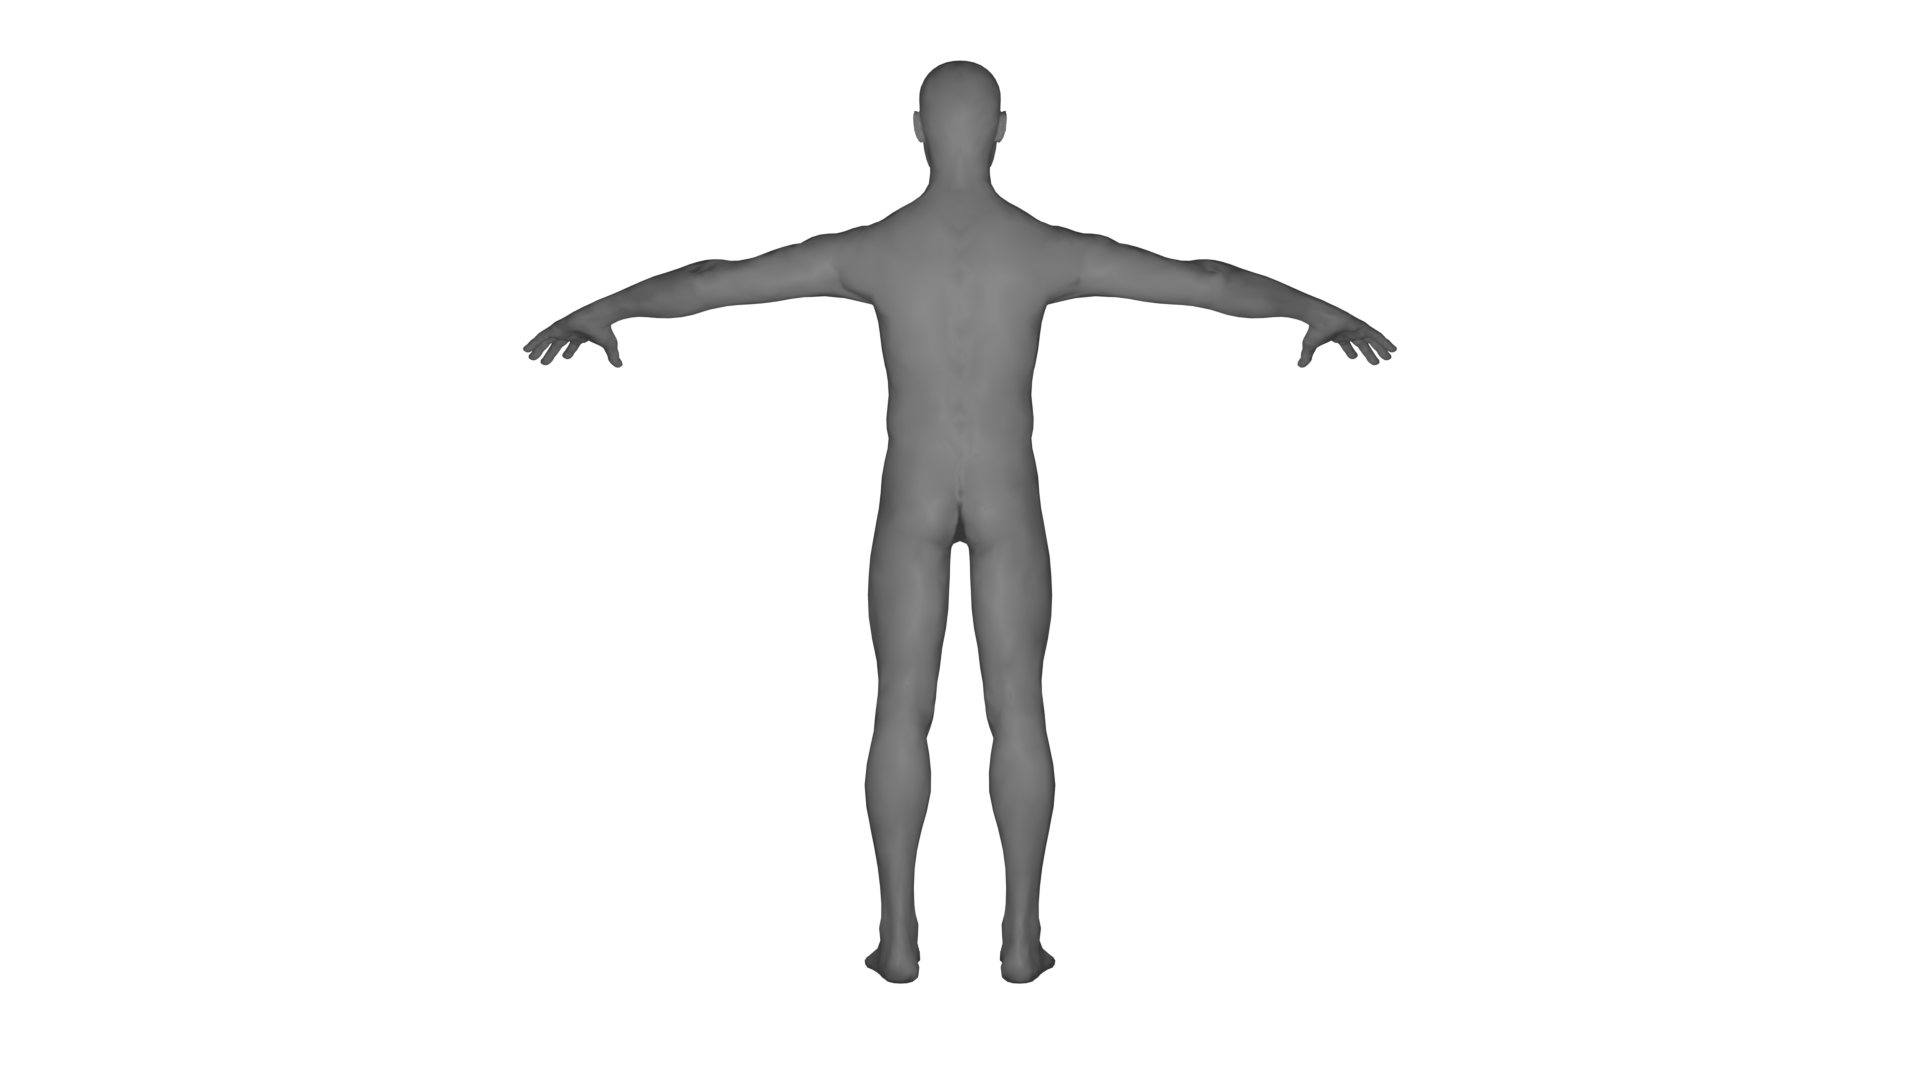
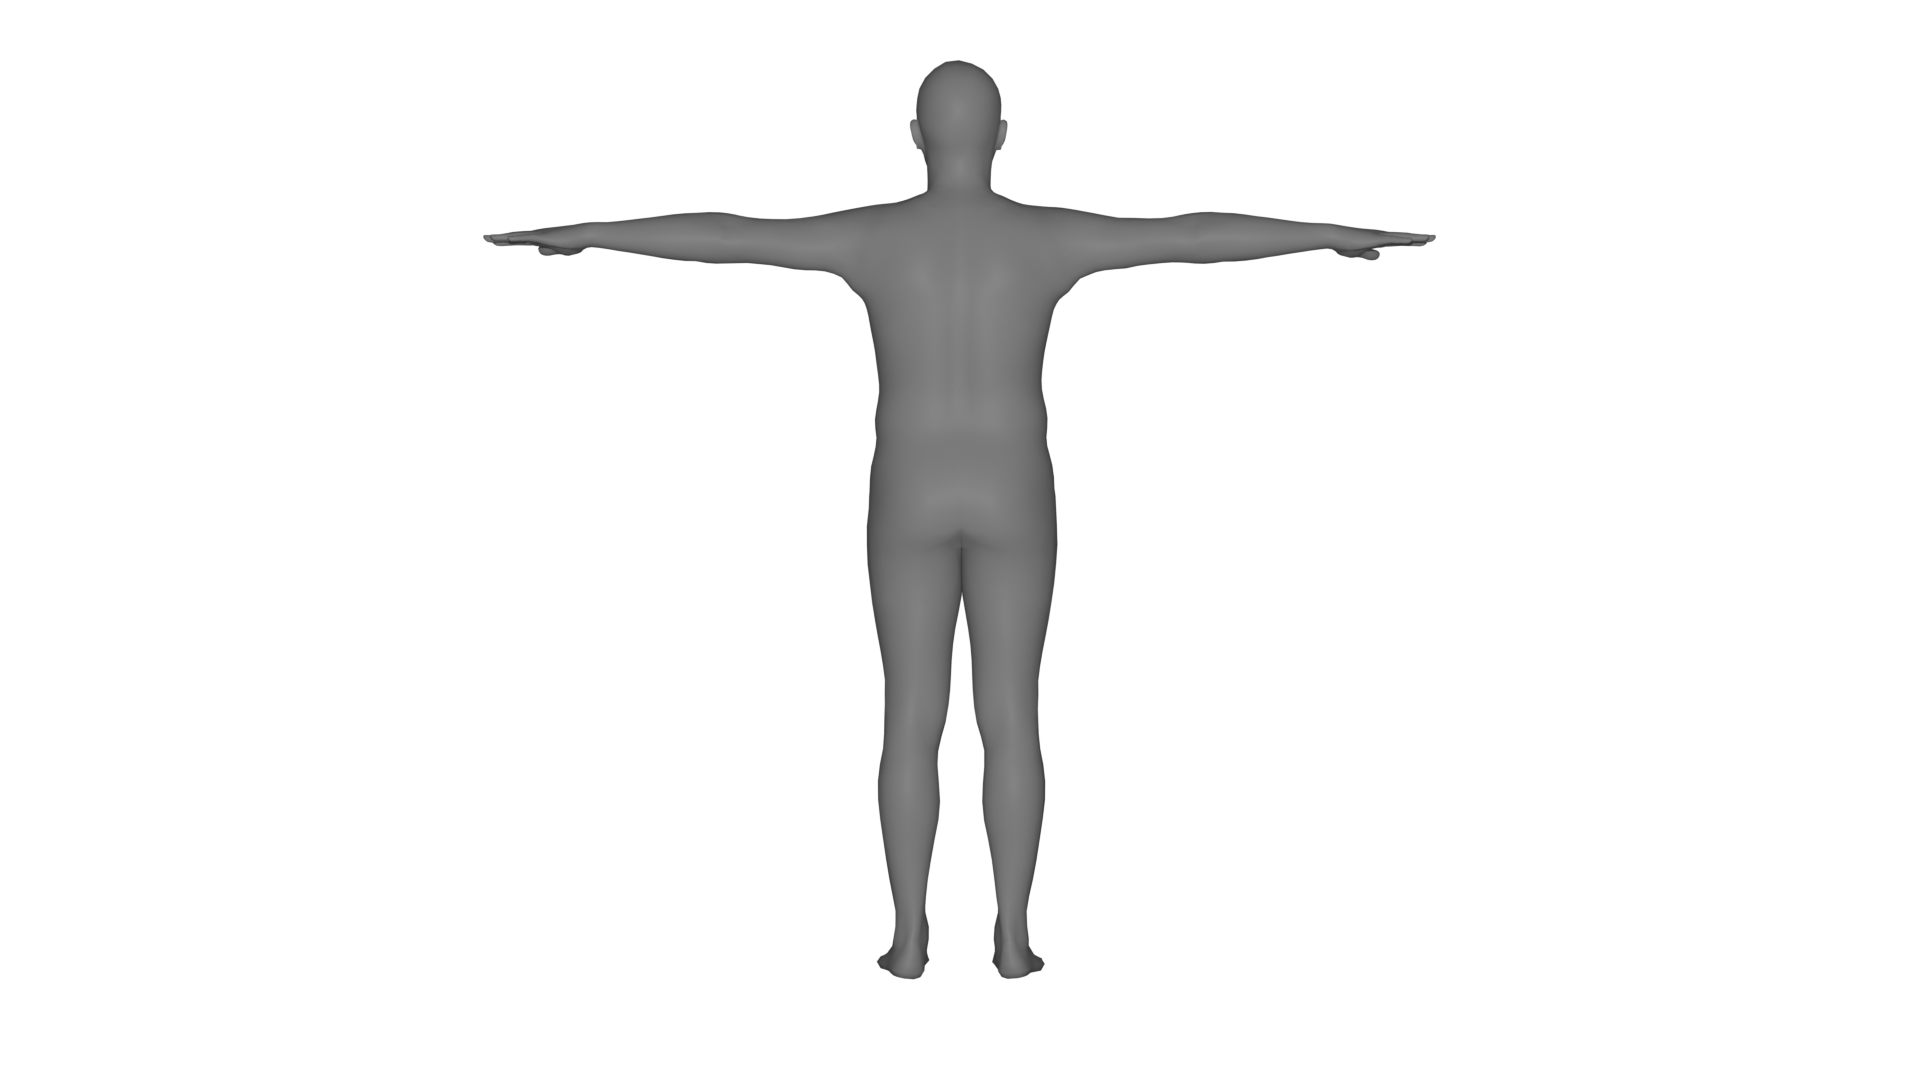
update

Changed region(s): [[0.25, 0.1833, 0.5625, 0.9167], [0.5312, 0.1833, 0.75, 0.3361]]

diff --git a/src/canvas/UI/ThreeDView.tsx b/src/canvas/UI/ThreeDView.tsx
@@ -1,23 +1,105 @@
-import { useCallback, useEffect, useRef, useState } from 'react';
-import { useCanvasState } from '../state/CanvasState';
-import type { CanvasPresent } from '../state/types';
+import { useCallback, useEffect, useRef, useState } from "react";
+import { useCanvasState } from "../state/CanvasState";
+import type { CanvasPresent } from "../state/types";
+
+const FRONT_IMAGE_ID = "static-man";
+const BACK_IMAGE_ID = "static-man-back";
+const STATIC_MAN_DIMENSIONS = { width: 1920, height: 1080 };
+const HUMAN_REFERENCE_FALLBACK = {
+  top: 17,
+  bottom: 765,
+  halfWidth: 718.5,
+  frontHalfWidth: null as number | null,
+  backHalfWidth: null as number | null,
+  frontCenterX: -80,
+  backCenterX: 1500,
+};
+
+type BackgroundImageEntry = CanvasPresent["backgroundImages"][number];
+
+function computeImageMetrics(image: BackgroundImageEntry | undefined) {
+  if (!image) return null;
+  const scaleX = Number.isFinite(image.scaleX) ? image.scaleX : 1;
+  const scaleY = Number.isFinite(image.scaleY) ? image.scaleY : 1;
+  const width = STATIC_MAN_DIMENSIONS.width * scaleX;
+  const height = STATIC_MAN_DIMENSIONS.height * scaleY;
+  return {
+    halfWidth: width / 2,
+    centerX: image.x + width / 2,
+    top: image.y,
+    bottom: image.y + height,
+  };
+}
+
+function buildHumanReferencePayload(
+  backgroundImages: CanvasPresent["backgroundImages"]
+) {
+  const payload = { ...HUMAN_REFERENCE_FALLBACK };
+  const frontImage = backgroundImages.find((img) => img.id === FRONT_IMAGE_ID);
+  const backImage = backgroundImages.find((img) => img.id === BACK_IMAGE_ID);
+
+  const frontMetrics = computeImageMetrics(frontImage);
+  const backMetrics = computeImageMetrics(backImage);
+
+  if (frontMetrics) {
+    payload.top = frontMetrics.top;
+    payload.bottom = frontMetrics.bottom;
+    payload.frontHalfWidth = frontMetrics.halfWidth;
+    payload.frontCenterX = frontMetrics.centerX;
+  }
+
+  if (backMetrics) {
+    if (!frontMetrics) {
+      payload.top = backMetrics.top;
+      payload.bottom = backMetrics.bottom;
+    }
+    payload.backHalfWidth = backMetrics.halfWidth;
+    payload.backCenterX = backMetrics.centerX;
+  }
+
+  const halfWidthSamples: number[] = [];
+  if (frontMetrics?.halfWidth) halfWidthSamples.push(frontMetrics.halfWidth);
+  if (backMetrics?.halfWidth) halfWidthSamples.push(backMetrics.halfWidth);
+
+  if (halfWidthSamples.length > 0) {
+    payload.halfWidth =
+      halfWidthSamples.reduce((sum, value) => sum + value, 0) /
+      halfWidthSamples.length;
+  }
+
+  return payload;
+}
 
 export function ThreeDView() {
   const iframeRef = useRef<HTMLIFrameElement>(null);
   const [iframeLoaded, setIframeLoaded] = useState(false);
 
   const isSimulationMode = useCanvasState((state) => state.isSimulationMode);
-  const setIsSimulationMode = useCanvasState((state) => state.setIsSimulationMode);
+  const setIsSimulationMode = useCanvasState(
+    (state) => state.setIsSimulationMode
+  );
 
-  const latestPresentRef = useRef<CanvasPresent>(useCanvasState.getState().present);
+  const latestPresentRef = useRef<CanvasPresent>(
+    useCanvasState.getState().present
+  );
   const rafIdRef = useRef<number | null>(null);
 
-  const postMessageToIframe = useCallback((message: unknown) => {
+  const postMessageToIframe = useCallback(
+    (message: unknown) => {
+      if (!iframeLoaded) return;
+      const target = iframeRef.current?.contentWindow;
+      if (!target) return;
+      target.postMessage(message, "*");
+    },
+    [iframeLoaded]
+  );
+
+  const sendHumanReference = useCallback(() => {
     if (!iframeLoaded) return;
-    const target = iframeRef.current?.contentWindow;
-    if (!target) return;
-    target.postMessage(message, '*');
-  }, [iframeLoaded]);
+    const backgroundImages = useCanvasState.getState().present.backgroundImages;
+    const payload = buildHumanReferencePayload(backgroundImages);
+    postMessageToIframe({ type: "updateHuman2DReference", payload });
+  }, [iframeLoaded, postMessageToIframe]);
 
   const buildPatternPayload = useCallback((present: CanvasPresent) => {
     const patterns = present.paths.map((path) => ({
@@ -31,29 +113,40 @@ export function ThreeDView() {
       })),
       closed: path.closed,
       // include texture info so the simulation iframe can load and apply pattern textures
-      texture: path.texture ? {
-        src: path.texture.src,
-        scaleX: path.texture.scaleX ?? 1,
-        scaleY: path.texture.scaleY ?? 1,
-        offsetX: path.texture.offsetX ?? 0,
-        offsetY: path.texture.offsetY ?? 0,
-        rotation: path.texture.rotation ?? 0,
-        repeat: path.texture.repeat ?? 'repeat'
-      } : undefined,
+      texture: path.texture
+        ? {
+            src: path.texture.src,
+            scaleX: path.texture.scaleX ?? 1,
+            scaleY: path.texture.scaleY ?? 1,
+            offsetX: path.texture.offsetX ?? 0,
+            offsetY: path.texture.offsetY ?? 0,
+            rotation: path.texture.rotation ?? 0,
+            repeat: path.texture.repeat ?? "repeat",
+          }
+        : undefined,
     }));
 
     return { patterns, seams: present.seams };
   }, []);
 
-  const sendPatterns = useCallback((present?: CanvasPresent) => {
-    if (!iframeLoaded) return;
-    const payloadSource = present ?? useCanvasState.getState().present;
-    postMessageToIframe({ type: 'setClothPattern', payload: buildPatternPayload(payloadSource) });
-  }, [iframeLoaded, postMessageToIframe, buildPatternPayload]);
+  const sendPatterns = useCallback(
+    (present?: CanvasPresent) => {
+      if (!iframeLoaded) return;
+      const payloadSource = present ?? useCanvasState.getState().present;
+      postMessageToIframe({
+        type: "setClothPattern",
+        payload: buildPatternPayload(payloadSource),
+      });
+    },
+    [iframeLoaded, postMessageToIframe, buildPatternPayload]
+  );
 
-  const sendMode = useCallback((mode: 'edit' | 'live') => {
-    postMessageToIframe({ type: 'setSimulationMode', payload: mode });
-  }, [postMessageToIframe]);
+  const sendMode = useCallback(
+    (mode: "edit" | "live") => {
+      postMessageToIframe({ type: "setSimulationMode", payload: mode });
+    },
+    [postMessageToIframe]
+  );
 
   useEffect(() => {
     if (!iframeLoaded) return;
@@ -88,64 +181,91 @@ export function ThreeDView() {
   useEffect(() => {
     if (!iframeLoaded) return;
     const timer = window.setTimeout(() => {
-      sendMode(isSimulationMode ? 'live' : 'edit');
+      sendMode(isSimulationMode ? "live" : "edit");
     }, 200);
     return () => window.clearTimeout(timer);
   }, [iframeLoaded, isSimulationMode, sendMode]);
 
-  const handleModeToggle = useCallback((mode: 'edit' | 'live') => {
-    const nextIsLive = mode === 'live';
-    setIsSimulationMode(nextIsLive);
-    if (iframeLoaded) {
-      sendMode(mode);
-      sendPatterns();
-    }
-  }, [iframeLoaded, sendMode, sendPatterns, setIsSimulationMode]);
+  useEffect(() => {
+    if (!iframeLoaded) return;
+
+    sendHumanReference();
+
+    const handleResize = () => sendHumanReference();
+    window.addEventListener("resize", handleResize);
+
+    let previousBackgrounds =
+      useCanvasState.getState().present.backgroundImages;
+    const unsubscribe = useCanvasState.subscribe((state) => {
+      const nextBackgrounds = state.present.backgroundImages;
+      if (nextBackgrounds !== previousBackgrounds) {
+        previousBackgrounds = nextBackgrounds;
+        sendHumanReference();
+      }
+    });
+
+    return () => {
+      window.removeEventListener("resize", handleResize);
+      unsubscribe();
+    };
+  }, [iframeLoaded, sendHumanReference]);
+
+  const handleModeToggle = useCallback(
+    (mode: "edit" | "live") => {
+      const nextIsLive = mode === "live";
+      setIsSimulationMode(nextIsLive);
+      if (iframeLoaded) {
+        sendMode(mode);
+        sendPatterns();
+      }
+    },
+    [iframeLoaded, sendMode, sendPatterns, setIsSimulationMode]
+  );
 
   const handleReload = useCallback(() => {
     setIframeLoaded(false);
     if (iframeRef.current) {
-      iframeRef.current.setAttribute('src', iframeRef.current.src);
+      iframeRef.current.setAttribute("src", iframeRef.current.src);
     }
   }, []);
 
   const modeButtonClass = (active: boolean) =>
     `h-10 px-4 rounded-lg border-2 font-semibold transition-colors ${
       active
-        ? 'bg-blue-600 text-white border-blue-600'
-        : 'bg-white text-gray-700 border-gray-300 hover:border-blue-400'
+        ? "bg-blue-600 text-white border-blue-600"
+        : "bg-white text-gray-700 border-gray-300 hover:border-blue-400"
     }`;
 
   return (
     <>
       <iframe
         ref={iframeRef}
-        src='http://localhost:5500/cloth-ammo/index.html'
-        className='h-full w-full'
+        src="http://localhost:5500/cloth-ammo/index.html"
+        className="h-full w-full"
         onLoad={() => setIframeLoaded(true)}
       />
-      <div className='absolute left-4 top-4 flex gap-2'>
+      <div className="absolute left-4 top-4 flex gap-2">
         <button
-          type='button'
+          type="button"
           className={modeButtonClass(!isSimulationMode)}
-          onClick={() => handleModeToggle('edit')}
+          onClick={() => handleModeToggle("edit")}
         >
           Edit
         </button>
         <button
-          type='button'
+          type="button"
           className={modeButtonClass(isSimulationMode)}
-          onClick={() => handleModeToggle('live')}
+          onClick={() => handleModeToggle("live")}
         >
           Live
         </button>
         <button
-          type='button'
-          className='h-10 w-10 rounded-lg bg-white p-2 border-2 border-gray-400 hover:border-blue-400 cursor-pointer'
-          name='Reload View'
+          type="button"
+          className="h-10 w-10 rounded-lg bg-white p-2 border-2 border-gray-400 hover:border-blue-400 cursor-pointer"
+          name="Reload View"
           onClick={handleReload}
         >
-          <img src='/svg/reset.svg' alt='Reload View' />
+          <img src="/svg/reset.svg" alt="Reload View" />
         </button>
       </div>
     </>